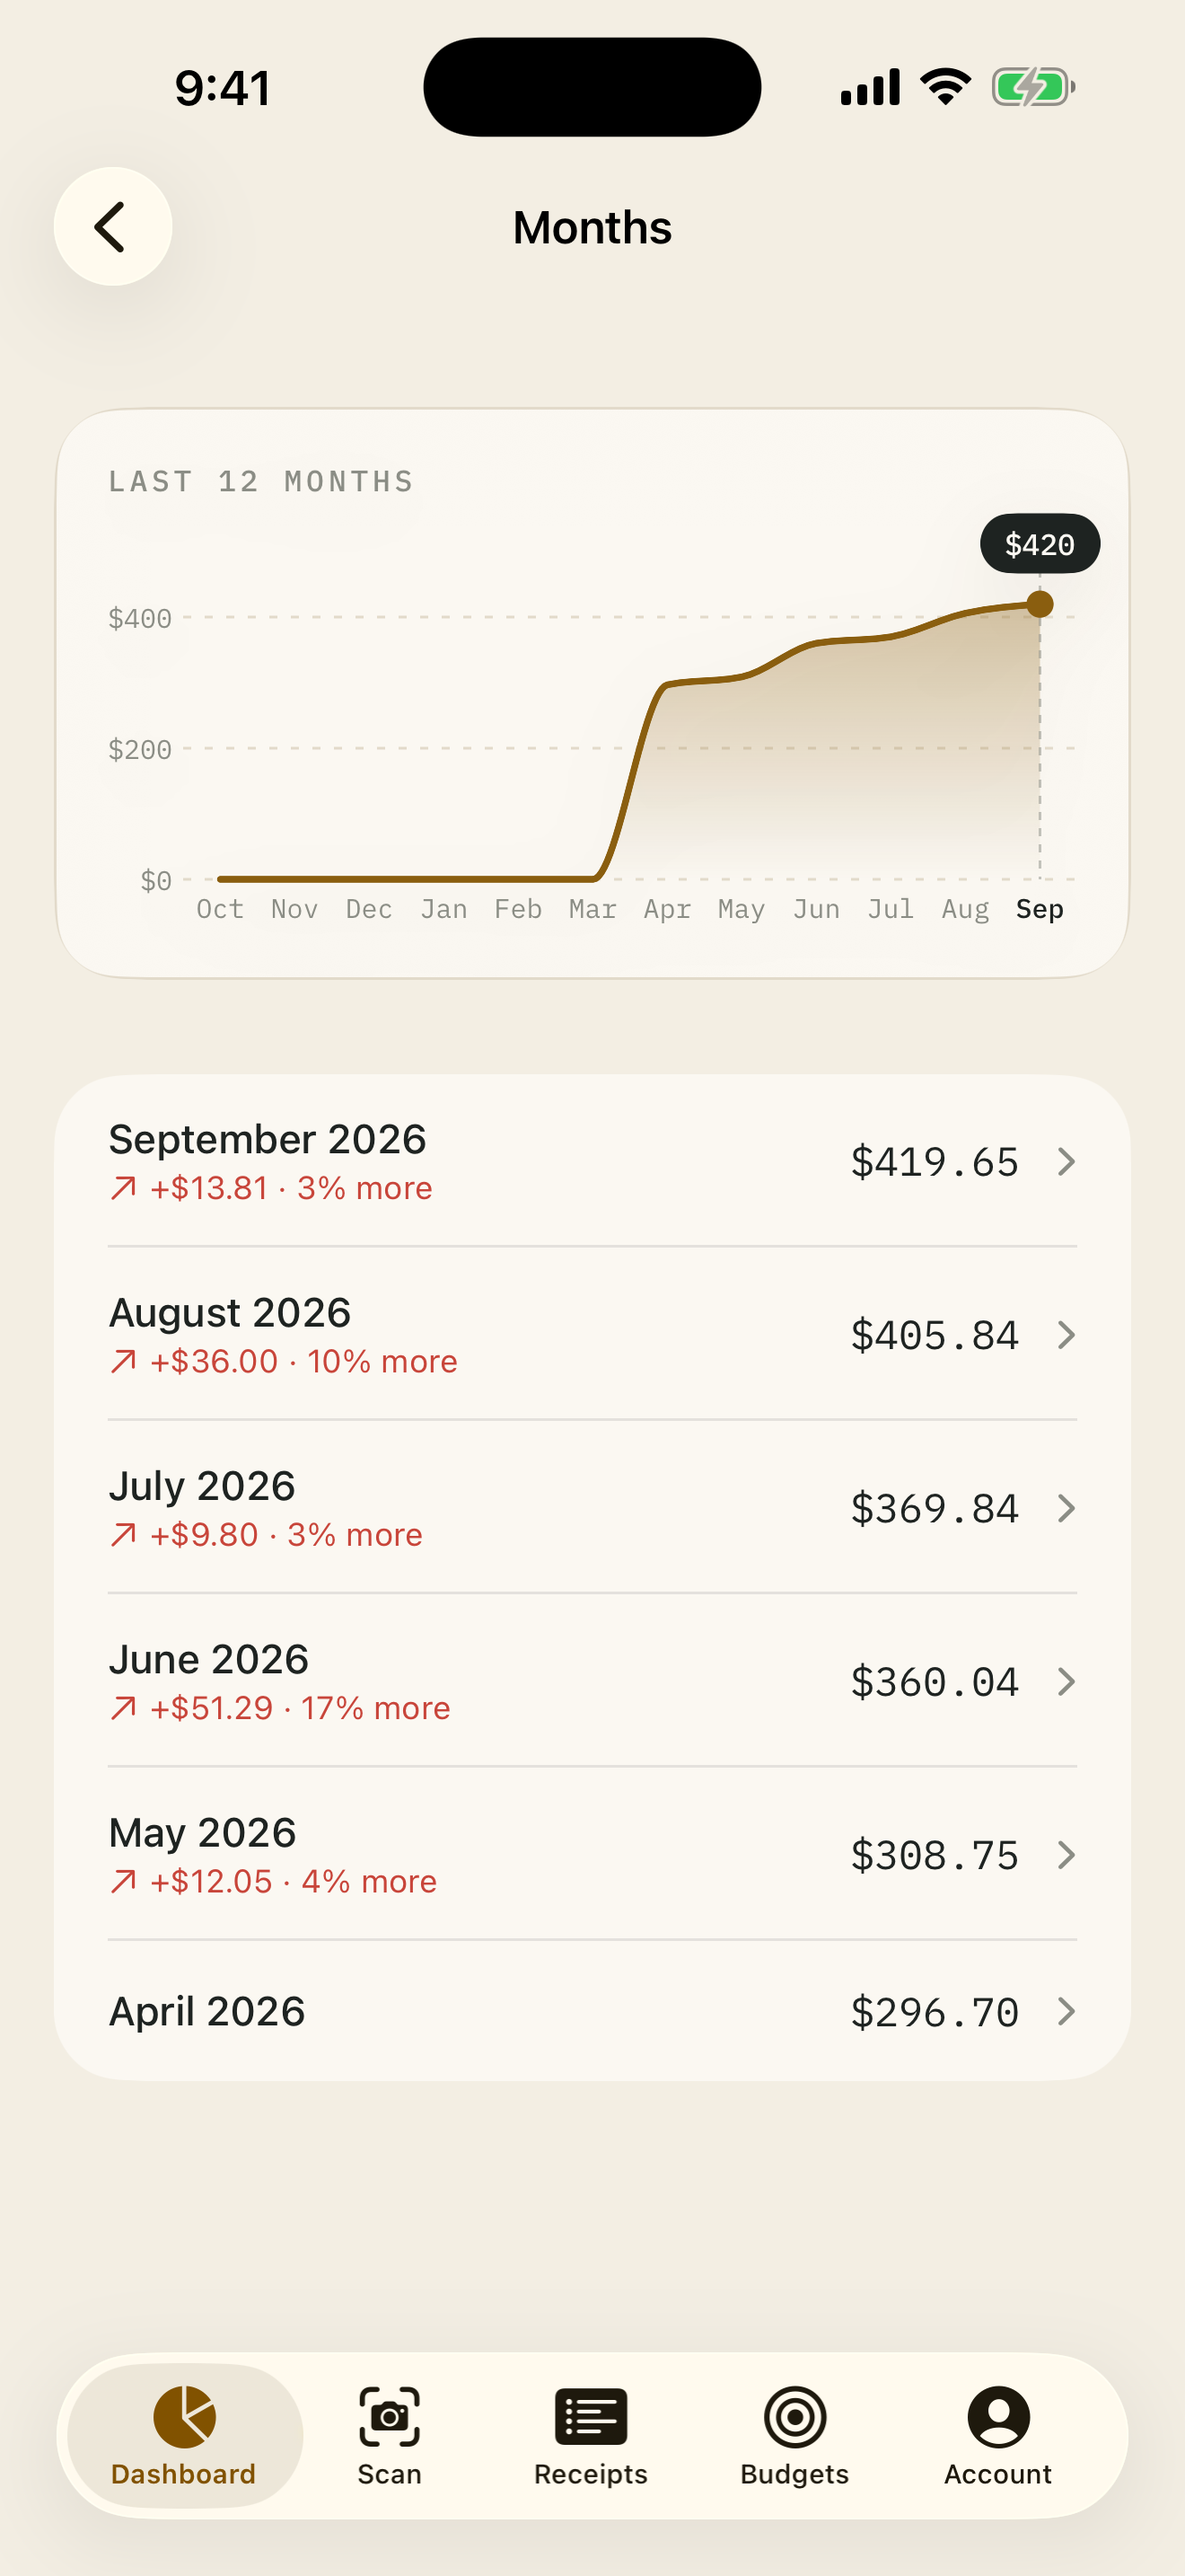
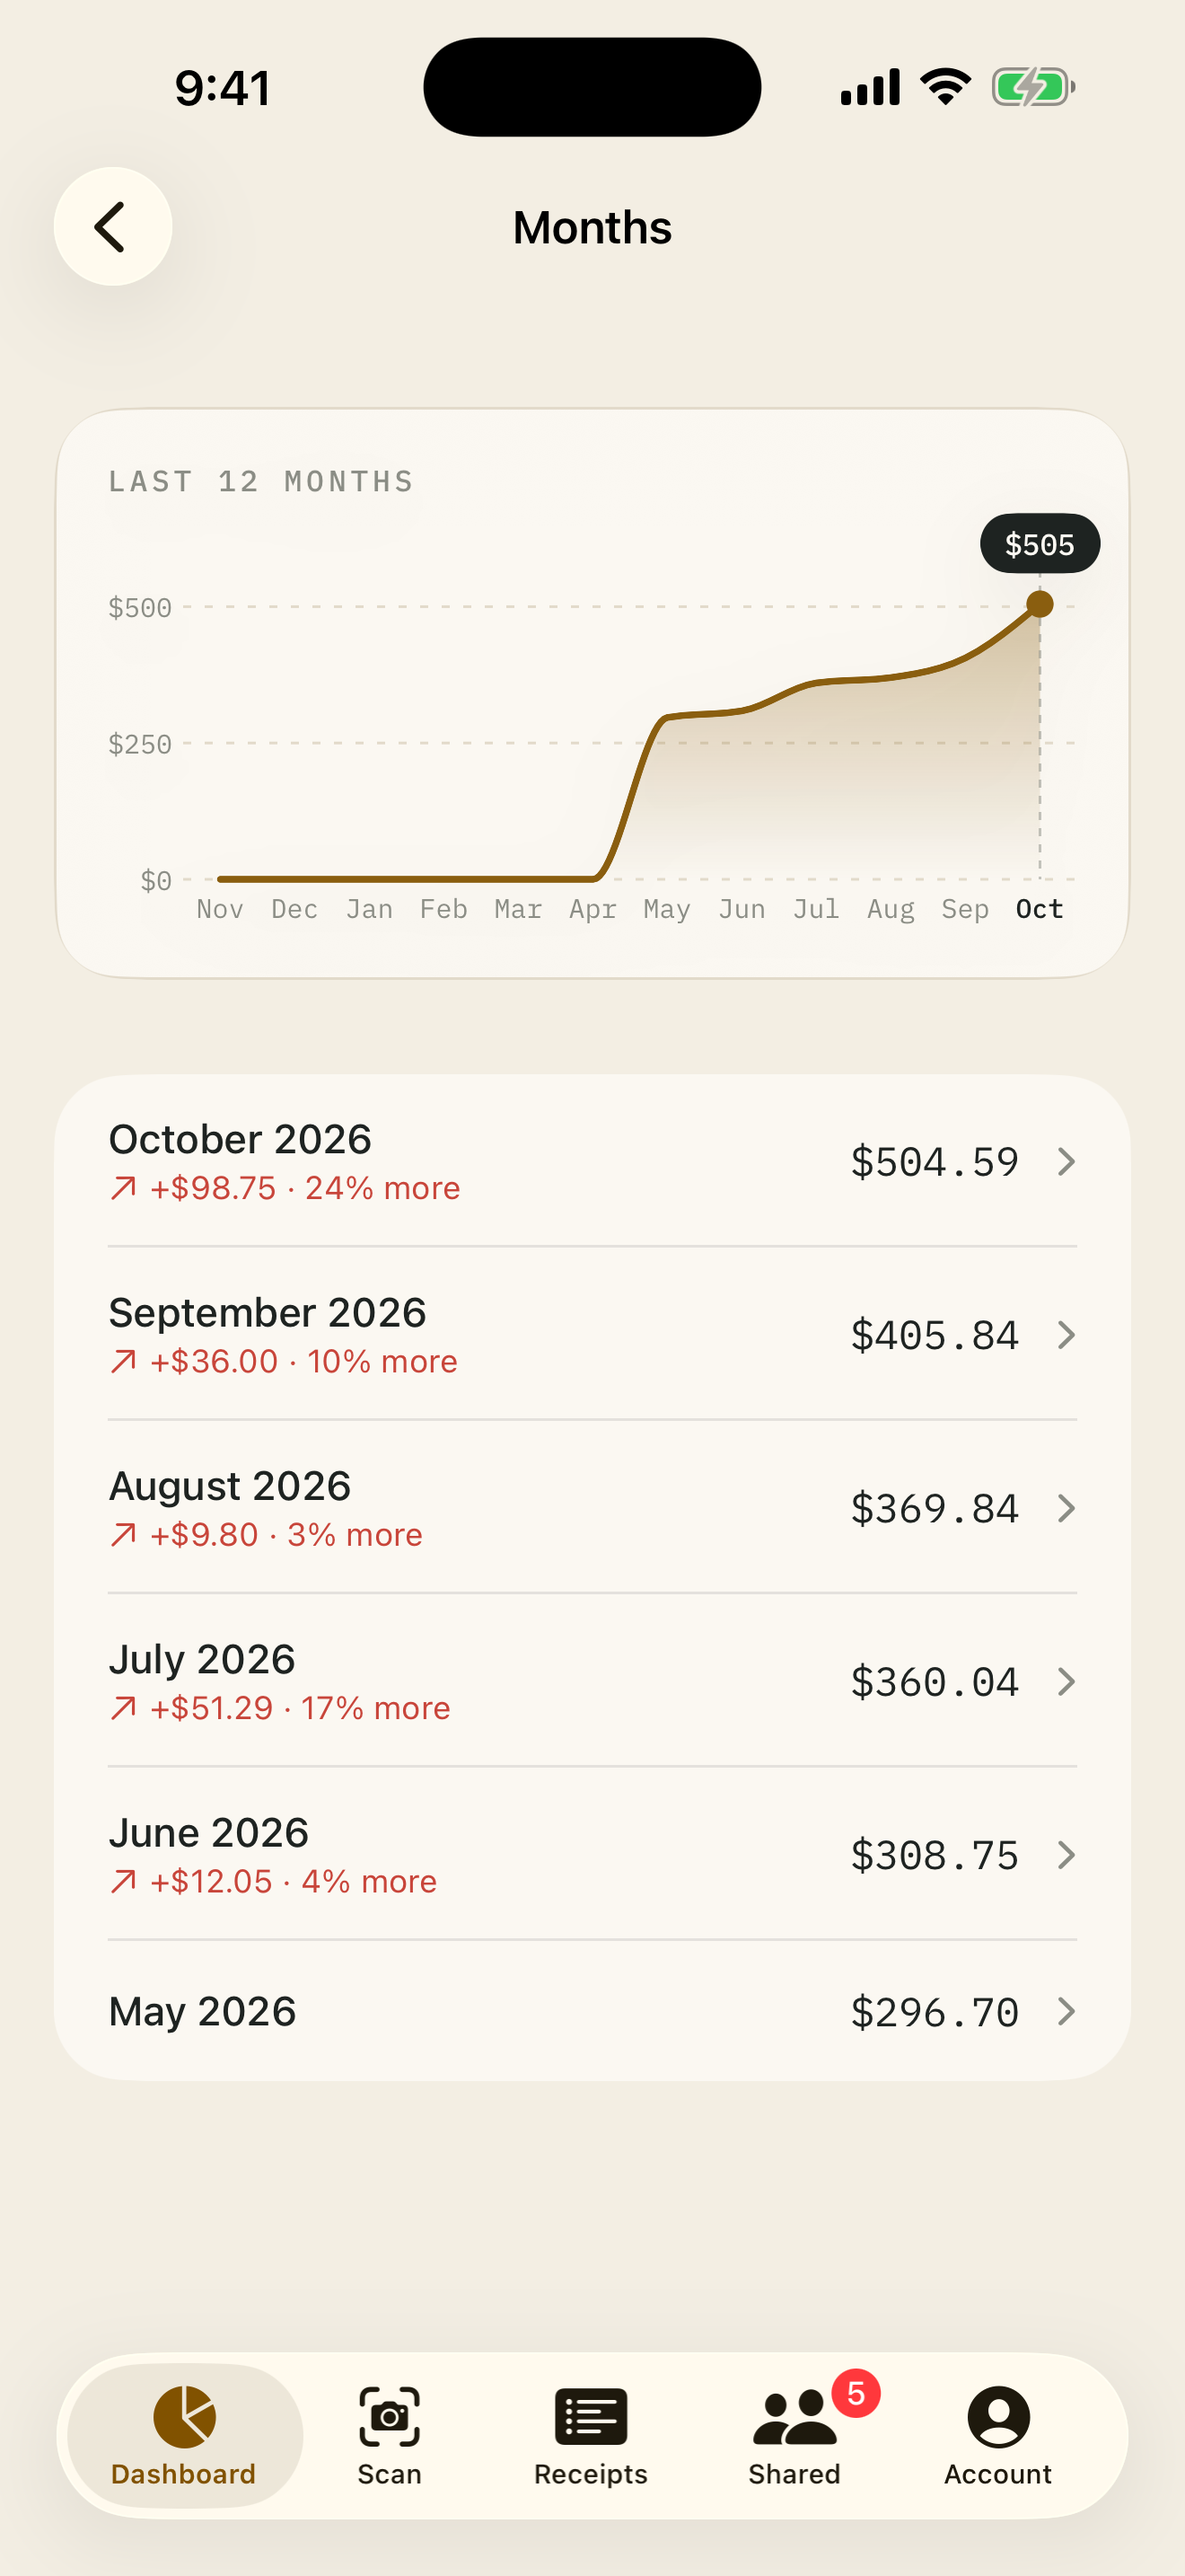
App Store screenshots for 1.1.0: split by item, groups, Shared; debug -demoAccount + local demo API with made-up people

diff --git a/ios/AIReceiptApp/Services/AuthManager.swift b/ios/AIReceiptApp/Services/AuthManager.swift
@@ -67,6 +67,12 @@ final class AuthManager {
 
     /// Restore a previous session on launch (no network unless a refresh is due).
     func bootstrap() {
+        #if DEBUG
+            if SampleData.demoAccount {
+                state = .signedIn(name: "Alex", email: "alex@example.com")
+                return
+            }
+        #endif
         guard let manager = credentialsManager, manager.hasValid() || manager.canRenew() else {
             state = .anonymous
             return
@@ -79,6 +85,9 @@ final class AuthManager {
 
     /// A valid API access token, refreshed if needed. `nil` when signed out.
     func accessToken() async -> String? {
+        #if DEBUG
+            if SampleData.demoAccount { return "demo" }
+        #endif
         guard let manager = credentialsManager, manager.hasValid() || manager.canRenew() else {
             return nil
         }

diff --git a/ios/AIReceiptApp/App/SampleData.swift b/ios/AIReceiptApp/App/SampleData.swift
@@ -8,6 +8,11 @@ import SwiftData
 enum SampleData {
     static let launchArgument = "-seedSampleReceipts"
 
+    /// `-demoAccount`: act signed in as "Alex" against a local demo API on
+    /// 127.0.0.1:8765 (made-up people and groups), for Shared screenshots.
+    static let demoAccount = ProcessInfo.processInfo.arguments.contains("-demoAccount")
+    static let demoAPI = URL(string: "http://127.0.0.1:8765")!
+
     @MainActor
     static func seedIfRequested(_ context: ModelContext) {
         guard ProcessInfo.processInfo.arguments.contains(launchArgument) else { return }

diff --git a/ios/AIReceiptApp/Config/AppConfig.swift b/ios/AIReceiptApp/Config/AppConfig.swift
@@ -10,6 +10,9 @@ enum AppConfig {
     /// except `localhost` / `127.0.0.1` / `*.local`, which use HTTP for local dev
     /// (paired with `NSAllowsLocalNetworking` in Info.plist).
     static var extractionAPIBaseURL: URL? {
+        #if DEBUG
+            if SampleData.demoAccount { return SampleData.demoAPI }
+        #endif
         guard let raw = infoString("ExtractionAPIHost"), !raw.isEmpty else { return nil }
 
         if raw.hasPrefix("http://") || raw.hasPrefix("https://") {

diff --git a/brand/app-store/demo_server.py b/brand/app-store/demo_server.py
@@ -1,0 +1,163 @@
+"""Local demo API for App Store screenshots: made-up people, no Auth0.
+Pairs with the iOS Debug launch argument -demoAccount (docs/APP_STORE.md).
+
+Run from backend/:  PYTHONPATH=. .venv/bin/python ../brand/app-store/demo_server.py ; serves http://127.0.0.1:8765.
+Every request is "Alex" (the bearer is ignored). Data lives in memory.
+"""
+
+import asyncio
+import os
+from datetime import date, timedelta
+
+os.environ["AI_RECEIPT_TEST"] = "1"  # no .env, no background jobs
+os.environ["AUTO_CREATE_TABLES"] = "false"
+
+import uvicorn
+from httpx import ASGITransport, AsyncClient
+from sqlalchemy.ext.asyncio import async_sessionmaker, create_async_engine
+from sqlalchemy.pool import StaticPool
+
+from app.api.deps import get_current_user, get_current_user_optional, get_extractor
+from app.schemas.extraction import ExtractedReceipt
+from app.db import get_session
+from app.main import app
+from app.models import Base, User
+
+TODAY = date(2026, 10, 30)
+
+
+def d(days_ago: int) -> str:
+    return (TODAY - timedelta(days=days_ago)).isoformat()
+
+
+async def main() -> None:
+    engine = create_async_engine(
+        "sqlite+aiosqlite://", connect_args={"check_same_thread": False}, poolclass=StaticPool
+    )
+    async with engine.begin() as conn:
+        await conn.run_sync(Base.metadata.create_all)
+    maker = async_sessionmaker(engine, expire_on_commit=False)
+
+    async with maker() as s:
+        alex = User(email="alex@example.com", display_name="Alex", auth0_sub="demo|alex",
+                    email_verified=True, currency="CAD")
+        sam = User(email="sam@example.com", display_name="Sam", auth0_sub="demo|sam",
+                   email_verified=True, currency="CAD")
+        priya = User(email="priya@example.com", display_name="Priya", auth0_sub="demo|priya",
+                     email_verified=True, currency="CAD", interac="priya@example.com")
+        s.add_all([alex, sam, priya])
+        await s.commit()
+
+    current = {"user": alex}
+
+    async def _session():
+        async with maker() as session:
+            yield session
+
+    app.dependency_overrides[get_session] = _session
+    app.dependency_overrides[get_current_user] = lambda: current["user"]
+    app.dependency_overrides[get_current_user_optional] = lambda: current["user"]
+
+    class Northfield:
+        def extract(self, **_):
+            return ExtractedReceipt(
+                merchant="Northfield Market", purchased_at=d(1), total="42.75", tax="0.65",
+                category="groceries", currency="CAD", confidence=0.96,
+                line_items=[{"name": n, "price": p, "quantity": 1} for n, p in (
+                    ("Oat milk 1L", "4.49"), ("Sourdough loaf", "6.50"),
+                    ("Honeycrisp apples 1.2kg", "5.14"), ("Greek yogurt 750g", "5.99"),
+                    ("Coffee beans 340g", "14.99"), ("Spinach 312g", "4.99"))],
+            )
+
+    app.dependency_overrides[get_extractor] = Northfield
+
+    async with AsyncClient(transport=ASGITransport(app=app), base_url="http://demo") as c:
+
+        async def ok(r):
+            assert r.status_code < 300, r.text
+            return r.json()
+
+        # ── Tofino weekend ──
+        g = await ok(await c.post("/v1/groups", json={
+            "name": "Tofino weekend", "currency": "CAD", "members": ["Sam", "Priya", "Jordan"]}))
+        me, sam_m, priya_m, jordan_m = g["members"]
+        token = g["invite_url"].rsplit("/", 1)[1]
+        for user, m in ((sam, sam_m), (priya, priya_m)):
+            current["user"] = user
+            await ok(await c.post(f"/v1/groups/join/{token}", json={"member_id": m["id"]}))
+        current["user"] = alex
+
+        async def expense(who, desc, total, parts, days, **extra):
+            current["user"] = who
+            r = await ok(await c.post("/v1/splits", json={
+                "group_id": g["id"], "description": desc, "total": total, "currency": "CAD",
+                "date": d(days), "participants": parts, **extra}))
+            current["user"] = alex
+            return r
+
+        everyone = [me, sam_m, priya_m, jordan_m]
+
+        def even(payer):
+            return [{"member_id": m["id"], "is_payer": m["id"] == payer["id"]} for m in everyone]
+
+        await expense(priya, "Cabin on Chesterman Beach", "520.00", even(priya_m), 40)
+        await expense(sam, "Groceries, Save-On-Foods", "186.40", even(sam_m), 39)
+        await expense(alex, "Surf lessons", "360.00", even(me), 38)
+        current["user"] = alex
+        await expense(alex, "Gas, both cars", "92.30", even(jordan_m), 37)
+
+        # A receipt split item by item, in the group.
+        items = [
+            {"name": "Seafood chowder", "price": "16.00"},
+            {"name": "Ling cod tacos", "price": "24.00"},
+            {"name": "Halibut & chips", "price": "29.00"},
+            {"name": "Steak frites", "price": "38.00"},
+            {"name": "Oysters (half dozen)", "price": "21.00"},
+            {"name": "Local IPA x3", "price": "27.00"},
+        ]
+        receipt = await ok(await c.post("/v1/receipts", json={
+            "merchant": "Wolf in the Fog", "date": d(2), "total": "176.75", "tax": "21.75",
+            "category": "restaurants", "currency": "CAD", "items": items}))
+        await ok(await c.post("/v1/splits", json={
+            "receipt_id": receipt["id"], "group_id": g["id"], "mode": "items",
+            "participants": [
+                {"is_me": True, "is_payer": True, "item_indexes": [0, 4]},
+                {"member_id": sam_m["id"], "item_indexes": [3, 5]},
+                {"member_id": priya_m["id"], "item_indexes": [2]},
+                {"member_id": jordan_m["id"], "item_indexes": [1]},
+            ]}))
+
+        # Sam paid back part of it.
+        current["user"] = sam
+        await ok(await c.post(f"/v1/groups/{g['id']}/settlements", json={
+            "from_member_id": sam_m["id"], "to_member_id": me["id"], "amount": "60.00"}))
+        current["user"] = alex
+
+        # ── Roommates ──
+        h = await ok(await c.post("/v1/groups", json={
+            "name": "Apartment", "currency": "CAD", "members": ["Maya"]}))
+        hm, maya = h["members"]
+        for desc, total, days in (("Hydro", "96.40", 12), ("Internet", "75.00", 6)):
+            await ok(await c.post("/v1/splits", json={
+                "group_id": h["id"], "description": desc, "total": total, "currency": "CAD",
+                "date": d(days), "repeat": "monthly",
+                "participants": [{"member_id": hm["id"], "is_payer": True},
+                                 {"member_id": maya["id"]}]}))
+
+        # ── One person, no group ──
+        noah = await ok(await c.post("/v1/people", json={"name": "Noah"}))
+        await ok(await c.post("/v1/splits", json={
+            "description": "Raptors tickets", "total": "184.00", "currency": "CAD", "date": d(9),
+            "participants": [{"is_me": True, "is_payer": True}, {"person_id": noah["id"]}]}))
+        emma = await ok(await c.post("/v1/people", json={"name": "Emma"}))
+        await ok(await c.post("/v1/splits", json={
+            "description": "Brunch, Lady Marmalade", "total": "64.80", "currency": "CAD",
+            "date": d(4), "participants": [{"is_me": True},
+                                           {"person_id": emma["id"], "is_payer": True}]}))
+
+    print("demo data ready", flush=True)
+    server = uvicorn.Server(uvicorn.Config(app, host="127.0.0.1", port=8765, log_level="warning"))
+    await server.serve()
+
+
+asyncio.run(main())

diff --git a/brand/app-store/build.py b/brand/app-store/build.py
@@ -2,7 +2,8 @@
 phone frame, on the ledger ink (dark) or paper (light) ground.
 
 Raw captures: iPhone 17 Pro Max simulator, status bar overridden to 9:41,
-app launched with -seedSampleReceipts (see ios/AIReceiptApp/App/SampleData.swift).
+app launched with -seedSampleReceipts (see ios/AIReceiptApp/App/SampleData.swift);
+the Shared shots add -demoAccount against a local demo API with made-up people.
 
     python3 brand/app-store/build.py   # needs Google Chrome; writes out/<size>/
 
@@ -21,10 +22,13 @@ CHROME = "/Applications/Google Chrome.app/Contents/MacOS/Google Chrome"
 # (output name, raw capture, theme, eyebrow, headline) — in App Store order.
 SLIDES = [
     ("01-scan", "scan.png", "dark", "Scan", "Snap a receipt.<br>It reads itself."),
-    ("02-dashboard", "dashboard.png", "dark", "This month", "Know where your<br>month stands."),
-    ("03-insights", "insights.png", "dark", "Insights", "See where it went<br>and what changed."),
-    ("04-receipts", "receipts.png", "light", "Receipts", "Every receipt,<br>one search away."),
-    ("05-history", "history.png", "light", "History", "Month over month,<br>at a glance."),
+    ("02-split", "split-items.png", "light", "Split it", "Split the bill,<br>item by item."),
+    ("03-group", "group.png", "dark", "Groups", "Who owes whom,<br>always up to date."),
+    ("04-dashboard", "dashboard.png", "light", "This month", "Know where your<br>month stands."),
+    ("05-shared", "shared.png", "dark", "Shared", "Trips, roommates,<br>friends. One balance."),
+    ("06-insights", "insights.png", "light", "Insights", "See where it went<br>and what changed."),
+    ("07-receipts", "receipts.png", "dark", "Receipts", "Every receipt,<br>one search away."),
+    ("08-history", "history.png", "light", "History", "Month over month,<br>at a glance."),
 ]
 
 # App Store Connect slot → (width, height) in pixels.

diff --git a/docs/APP_STORE.md b/docs/APP_STORE.md
@@ -133,15 +133,22 @@ is enough, and Apple scales it for the other iPhone sizes. The app is iPhone-onl
 | # | File | Shows |
 |---|---|---|
 | 1 | `out/<size>/01-scan.png` | A receipt read into its fields (the core loop) |
-| 2 | `out/<size>/02-dashboard.png` | This month's total + trend |
-| 3 | `out/<size>/03-insights.png` | Where it went + insights |
-| 4 | `out/<size>/04-receipts.png` | Receipts list, light mode |
-| 5 | `out/<size>/05-history.png` | Month history, light mode |
+| 2 | `out/<size>/02-split.png` | Splitting a receipt item by item |
+| 3 | `out/<size>/03-group.png` | A group: who owes whom |
+| 4 | `out/<size>/04-dashboard.png` | This month's total + trend |
+| 5 | `out/<size>/05-shared.png` | The Shared tab: people and groups |
+| 6 | `out/<size>/06-insights.png` | Where it went + insights |
+| 7 | `out/<size>/07-receipts.png` | Receipts list, light mode |
+| 8 | `out/<size>/08-history.png` | Month history, light mode |
 
 The raw captures are in `brand/app-store/raw/`: iPhone 17 Pro Max simulator,
-status bar overridden to 9:41, and sample data from the debug-only
-`-seedSampleReceipts` launch argument. The scanned receipt is a made-up store
-(Northfield Market) run through the real extraction backend.
+status bar overridden to 9:41, launched with the debug-only
+`-seedSampleReceipts -demoAccount` arguments. `-demoAccount` signs the app in
+as "Alex" against `brand/app-store/demo_server.py`, a local API on
+127.0.0.1:8765 with made-up people (Sam, Priya, Jordan, Maya, Noah, Emma) and
+a fake extractor, so no real account or names appear. Run it from `backend/`:
+`PYTHONPATH=. .venv/bin/python ../brand/app-store/demo_server.py`. The scanned
+receipt is a made-up store (Northfield Market).
 
 ## App Privacy ("nutrition label")
 
